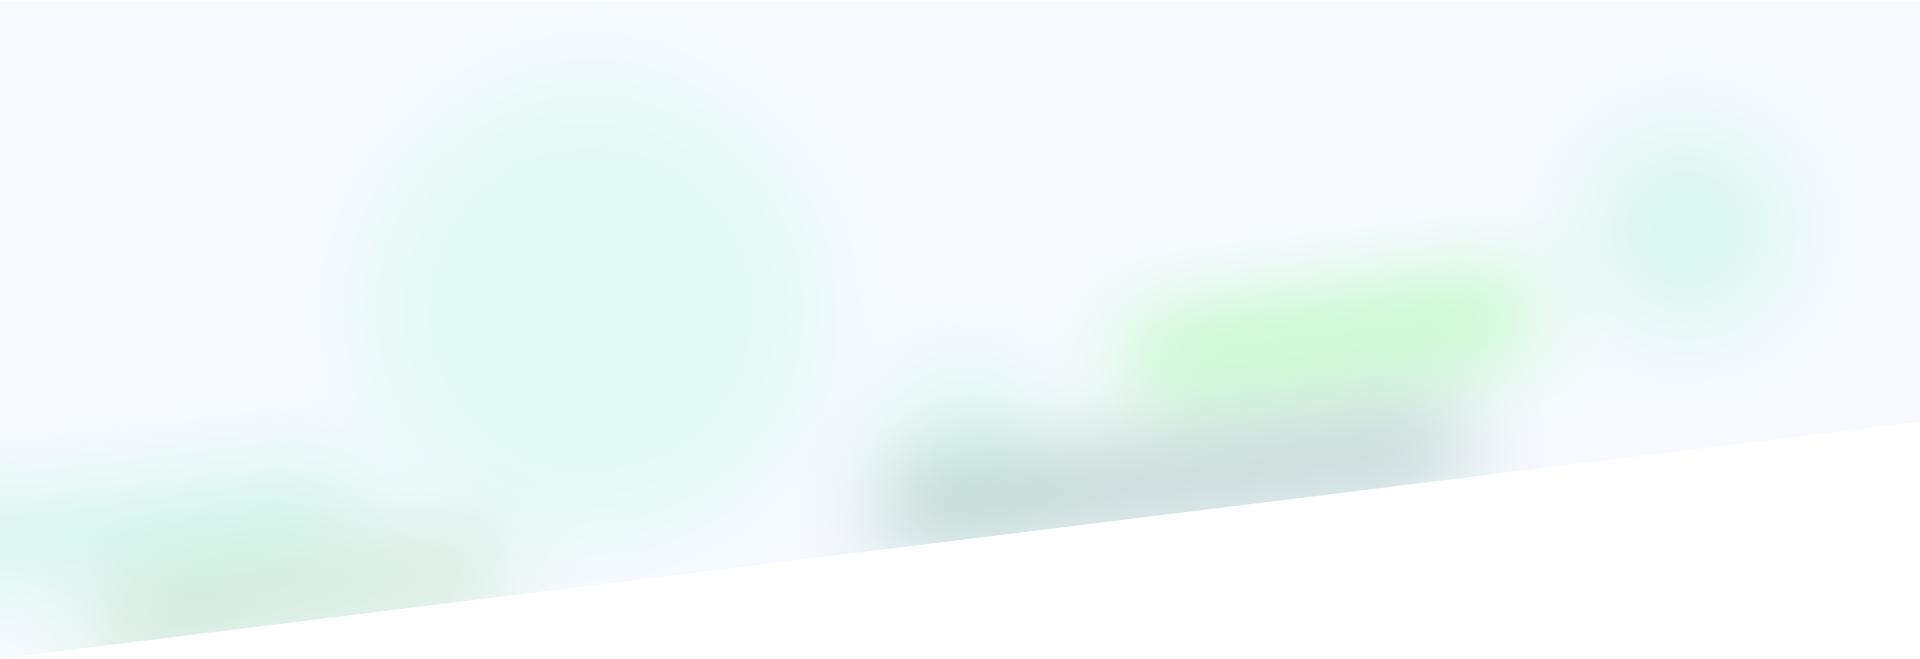
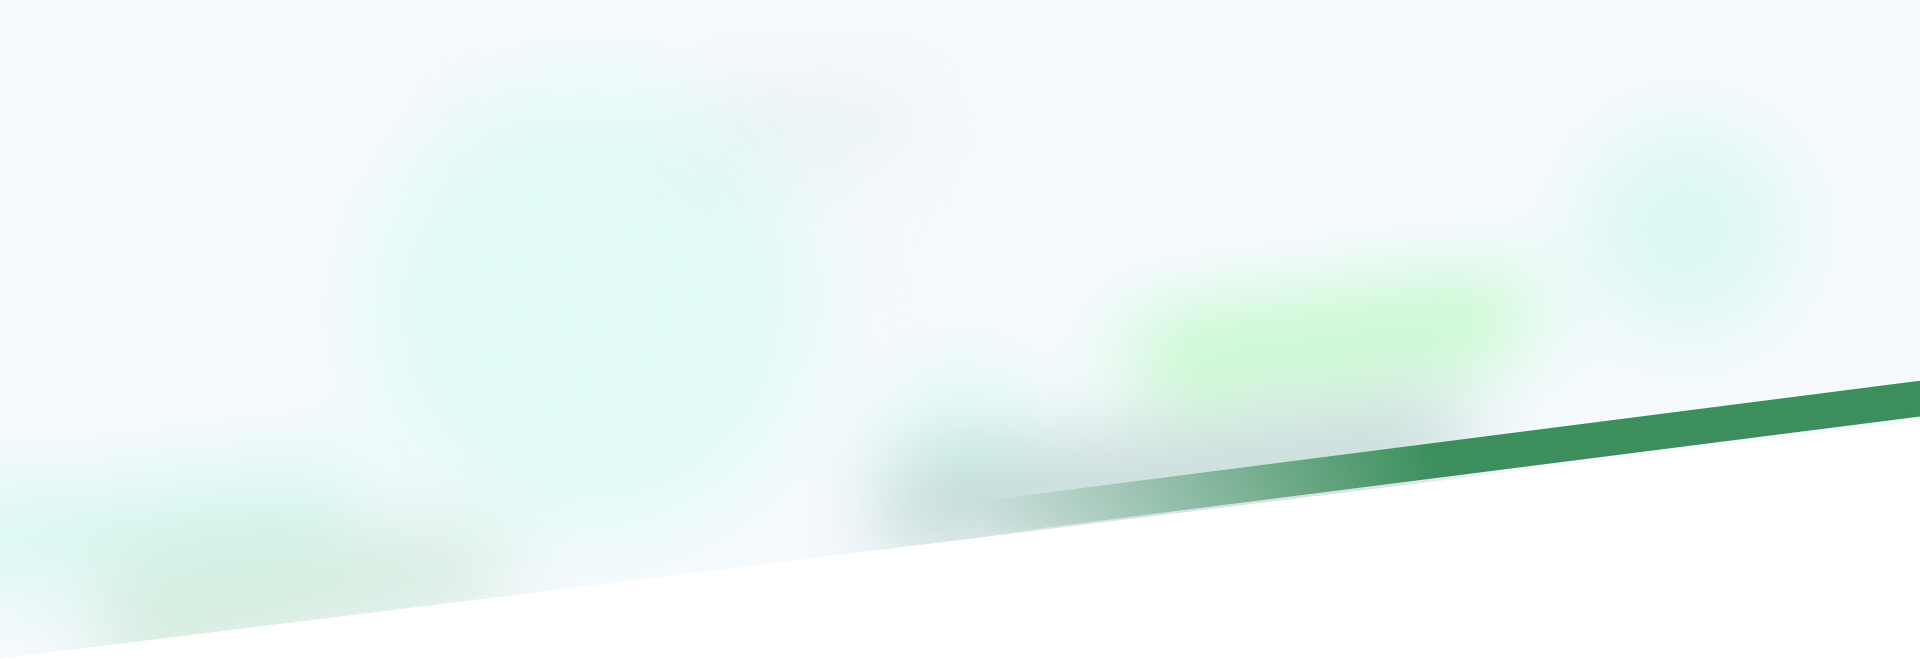
Правки

Changed region(s): [[0.5312, 0.5766, 1.0, 0.7891]]

diff --git a/css/styles.css b/css/styles.css
@@ -1276,8 +1276,8 @@ header .mob_socials .whatsapp_link .icon
 .page_head .contacts
 {
     font-family: var(--font_family2);
-    font-size: 18px;
-    line-height: 24px;
+    font-size: 14px;
+    line-height: 18px;
 
     margin-top: 80px;
     padding: 0 48px;
@@ -1301,7 +1301,7 @@ header .mob_socials .whatsapp_link .icon
 {
     position: relative;
 
-    width: 524px;
+    width: 420px;
     max-width: 100%;
     margin-top: 24px;
     padding-left: 32px;
@@ -1324,9 +1324,9 @@ header .mob_socials .whatsapp_link .icon
 .page_head .notice .text
 {
     color: #64bc62;
-    font-size: 18px;
+    font-size: 14px;
     font-weight: 600;
-    line-height: 24px;
+    line-height: 18px;
 
     position: relative;
 
@@ -3067,8 +3067,8 @@ header .mob_socials .whatsapp_link .icon
     top: 50%;
     left: 50%;
 
-    width: 1920px;
-    height: 559px;
+    width: auto;
+    height: 571px;
 
     transform: translate(-50%, -50%);
 }
@@ -3253,17 +3253,18 @@ header .mob_socials .whatsapp_link .icon
 
 .quote_block.min_h
 {
-    min-height: 559px;
+    min-height: 571px;
 }
 
 
 .order_form + .quote_block
 {
-    margin-top: -220px;
+    margin-top: -240px;
 }
 
 
-.quote_block .bg
+.quote_block .bg,
+.quote_block .bg2
 {
     position: absolute;
     z-index: -1;
@@ -3278,15 +3279,7 @@ header .mob_socials .whatsapp_link .icon
 
 .quote_block .bg2
 {
-    position: absolute;
-    z-index: -1;
-    top: 50%;
-    left: 50%;
-
-    width: auto;
-    height: 559px;
-
-    transform: translate(-50%, -50%);
+    height: 571px;
 }
 
 

diff --git a/service.html b/service.html
@@ -97,6 +97,30 @@
 									<div class="item">
 										<a href="/">Контакты</a>
 									</div>
+								</nav><nav class="menu row">
+									<div class="item">
+										<a href="/">О мастерской</a>
+									</div>
+
+									<div class="item">
+										<a href="/">Услуги и цены</a>
+									</div>
+
+									<div class="item">
+										<a href="/" class="sub_link">Разное</a>
+
+										<div class="sub_menu">
+											<div><a href="/">Этический Кодекс психолога</a></div>
+											<div><a href="/">Библиотека</a></div>
+											<div><a href="/">Статьи</a></div>
+											<div><a href="/">Притчи о жизни</a></div>
+											<div><a href="/">Блог</a></div>
+										</div>
+									</div>
+
+									<div class="item">
+										<a href="/">Контакты</a>
+									</div>
 								</nav>
 
 								<button class="order_btn">Записаться на прием</button>

diff --git a/order.html b/order.html
@@ -79,7 +79,7 @@
 									</div>
 
 									<div class="item">
-										<a  href="/" class="active">Услуги и цены</a>
+										<a href="/">Услуги и цены</a>
 									</div>
 
 									<div class="item">
@@ -263,7 +263,7 @@
 				</section>
 
 
-				<section class="quote_block no_margin">
+				<section class="quote_block no_margin min_h">
 					<div class="cont">
 						<div class="data margin">
 							<p>В трудной ситуации запишитесь на консультацию в<br> психологическую мастерскую «Катарсис». Мы<br> постараемся обязательно Вам помочь!</p>
@@ -272,7 +272,7 @@
 						</div>
 					</div>
 
-					<img data-src="images/bg_quote_block.svg" alt="" class="bg lozad">
+					<img data-src="images/bg_quote_block2.svg" alt="" class="bg2 lozad">
 				</section>
 			</div>
 

diff --git a/article.html b/article.html
@@ -79,11 +79,11 @@
 									</div>
 
 									<div class="item">
-										<a  href="/">Услуги и цены</a>
+										<a href="/">Услуги и цены</a>
 									</div>
 
 									<div class="item">
-										<a href="/" class="sub_link active">Разное</a>
+										<a href="/" class="sub_link">Разное</a>
 
 										<div class="sub_menu">
 											<div><a href="/">Этический Кодекс психолога</a></div>

diff --git a/blog.html b/blog.html
@@ -79,11 +79,11 @@
 									</div>
 
 									<div class="item">
-										<a  href="/">Услуги и цены</a>
+										<a href="/">Услуги и цены</a>
 									</div>
 
 									<div class="item">
-										<a href="/" class="sub_link active">Разное</a>
+										<a href="/" class="sub_link">Разное</a>
 
 										<div class="sub_menu">
 											<div><a href="/">Этический Кодекс психолога</a></div>

diff --git a/css/response_767.css b/css/response_767.css
@@ -129,8 +129,18 @@
 
     .page_head .contacts
     {
+        font-size: 18px;
+        line-height: 24px;
+
         margin-top: 40px;
         margin-bottom: 40px;
+    }
+
+
+    .page_head .notice .text
+    {
+        font-size: 18px;
+        line-height: 24px;
     }
 
 

diff --git a/about.html b/about.html
@@ -73,7 +73,7 @@
 							<div class="cont row">
 								<nav class="menu row">
 									<div class="item">
-										<a class="active">О мастерской</a>
+										<a href="/">О мастерской</a>
 									</div>
 
 									<div class="item">

diff --git a/services.html b/services.html
@@ -79,7 +79,7 @@
 									</div>
 
 									<div class="item">
-										<a class="active">Услуги и цены</a>
+										<a href="/">Услуги и цены</a>
 									</div>
 
 									<div class="item">

diff --git a/contacts.html b/contacts.html
@@ -95,7 +95,7 @@
 									</div>
 
 									<div class="item">
-										<a class="active">Контакты</a>
+										<a href="/">Контакты</a>
 									</div>
 								</nav>
 
